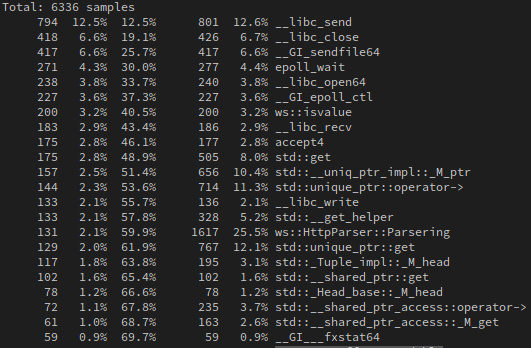
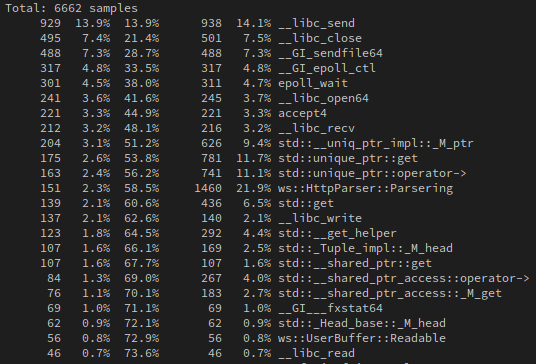
加入参数优化；

Changed region(s): [[0.3616, 0.0287, 0.9944, 1.0], [0.0, 0.0, 0.3013, 1.0]]

diff --git a/src/http/httpstatus.h b/src/http/httpstatus.h
@@ -18,6 +18,12 @@
 
 #include <iostream>
 
+#ifndef __GNUC__
+
+#define  __attribute__(x)  /*NOTHING*/
+    
+#endif
+
 namespace ws{
 
     enum HttpStatusCode{
@@ -121,7 +127,7 @@ namespace ws{
         
         HttpFlag Set_Ka = Keep_Alive;
 
-        void init() noexcept {    // 用于在每次解析的时候重新初始化状态而不是重新设置上指针
+        void init() noexcept {    // 用于在每次解析的时候重新初始化状态而不是重新设置指针
             method = HRInit;
             Status = HPSOK;
             Fault = HPFOK;
@@ -140,7 +146,6 @@ namespace ws{
     };
 
     std::ostream& operator<<(std::ostream& os, const HttpParser_Content& para);
-
 
     constexpr const char* StatusCode_to_String(int statuscode){
         HttpStatusCode para = static_cast<HttpStatusCode>(statuscode);
@@ -183,13 +188,11 @@ namespace ws{
         }
     }
 
-    constexpr bool isheader(char c) {
+    constexpr bool __attribute__((const)) isheader(char c) throw() {
         return isalnum(c) || c == '-' || c == '_';
     }
 
-
-    constexpr bool isuri(char c) {
-    bool isuri[] = {
+    constexpr bool is_uri[] = {
     /*0   nul    soh    stx    etx    eot    enq    ack    bel     7*/
         false, false, false, false, false, false, false, false,
     /*8   bs     ht     nl     vt     np     cr     so     si     15*/
@@ -224,11 +227,11 @@ namespace ws{
         true, true, true, false, false, false, false, false
     };
 
-    return (c >= 0) ? isuri[c] : false;
+    constexpr bool inline __attribute__((const)) isuri(char c) throw() {
+        return (c >= 0) ? is_uri[c] : false;
     }
 
-    constexpr bool isvalue(char c) {
-    bool isvalue[] = {
+    constexpr bool is_value[] = {
     /*0   nul    soh    stx    etx    eot    enq    ack    bel     7*/
         false, false, false, false, false, false, false, false,
     /*8   bs     ht     nl     vt     np     cr     so     si     15*/
@@ -263,8 +266,11 @@ namespace ws{
         true, true, true, true, true, true, true, false
     };
 
-    return (c >= 0) ? isvalue[c] : false;
+    // 这个函数曾占到了CPU执行的3.2%，很恐怖的一个数字，因为把is_value直接放在函数中了，导致每次都会压栈一个长度为128的数组；修改后占比0.4%；
+    constexpr bool inline __attribute__((hot)) __attribute__((const)) __attribute__((always_inline)) isvalue(char c) throw() {
+        return (c >= 0) ? is_value[c] : false;
     }
+
 }
 
 #endif

diff --git a/src/server/ws.cc b/src/server/ws.cc
@@ -45,19 +45,17 @@ namespace ws{
         try{
             signal(SIGPIPE, SIG_IGN);
 
-            // 其实这两个玩意对于性能没有啥帮助；《[读入，输出优化](https://oi-wiki.org/contest/io/)》
-/*             std::ios::sync_with_stdio(false);
-            std::cin.tie(nullptr); */
-
             _Server_.Set_AddrRUseA();
             _Server_.Base_Setting();
             _Server_.Server_BindAndListen();
+            _Server_.Server_DeferAccept();
+
             _Epoll_.Add(_Server_, EpollOnlyRead());
             _Epoll_.Add(_Timer_, EpollOnlyRead());  // 处理连接，又是单线程，只注册一个可读事件即可
             _Timer_.SetTimer();
 
             LockFreeQueue<ThreadLoadData> que;
-            LoadBalance LB(que);    // 负载均衡器
+            LoadBalance LB(que);                    // 负载均衡器
 
             EpollEvent_Result Event_Reault(Y_Dragon::EventResult_Number());
             channel_helper Channel_(LB);

diff --git a/src/server/server.cc b/src/server/server.cc
@@ -21,7 +21,7 @@
 
 namespace{
     template <typename T>
-    T max(T&& a,T&& b){
+    constexpr T max(T&& a,T&& b) throw() {
         return a > b ? a : b;
     }
 }
@@ -73,7 +73,7 @@ namespace ws{
         } */
     }
 
-    void Server::Server_BindAndListen(){ 
+    void Server::Server_BindAndListen(){
         assert(Addr_ != nullptr); 
         int para1 = bind(fd(), Addr_->Return_Pointer(), Addr_->Return_length());
         if(para1 == -1) throw std::runtime_error("'Server_BindAndListen' : error in bind.");
@@ -91,5 +91,10 @@ namespace ws{
         */
         struct linger buffer_ = {1,0};
         return setsockopt(fd(), SOL_SOCKET, SO_LINGER, &buffer_, sizeof(buffer_));
+    }
+
+    int Server::Server_DeferAccept(){
+        int soValue = 10;   // 一个magic number https://my.oschina.net/orion/blog/51575
+        return setsockopt(fd(), IPPROTO_TCP, TCP_DEFER_ACCEPT, &soValue, sizeof(soValue));
     }
 }

diff --git a/src/server/server.h b/src/server/server.h
@@ -35,6 +35,7 @@ namespace ws{
             std::unique_ptr<Socket> Server_Accept(); 
             void Server_Accept(fun&& f);
             void Server_BindAndListen();
+            int Server_DeferAccept();
 
             int Set_AddrRUseA() {return Set_Socket(SO_REUSEADDR, SOL_SOCKET);}  // 防止服务器重启受阻
             // https://blog.csdn.net/chen_fly2011/article/details/56480925?ops_request_misc=%257B%2522request%255Fid%2522%253A%2522160761747019725271062162%2522%252C%2522scm%2522%253A%252220140713.130102334..%2522%257D&request_id=160761747019725271062162&biz_id=0&utm_medium=distribute.pc_search_result.none-task-blog-2~all~sobaiduend~default-1-56480925.first_rank_v2_pc_rank_v29&utm_term=SO_REUSEPORT&spm=1018.2118.3001.4449

diff --git a/src/http/httpstatus.cc b/src/http/httpstatus.cc
@@ -18,7 +18,7 @@
 namespace ws{
     
     //For debugging
-    std::ostream& operator<<(std::ostream& os, const HttpParser_Content& para){
+    std::ostream&  [[deprecated]] operator<<(std::ostream& os, const HttpParser_Content& para){
         using std::endl;
         os << "method : " << static_cast<int>(para.method) << endl;
         os << "Status : " << static_cast<int>(para.Status) << endl;

diff --git a/src/server/ws.h b/src/server/ws.h
@@ -23,7 +23,7 @@
 #include "../tool/timer.h"
 
 namespace ws{
-    class Web_Server{ 
+    class Web_Server{
         public:
             Web_Server();
             void Running();

diff --git a/README.md b/README.md
@@ -1,6 +1,6 @@
 # 介绍
 
-RabbitServer是一个运行于Linux平台的HTTP服务器，采用C++14编写，目前支持处理HTTP/1.1的静态GET，HEAD，OPTIONS请求以及FastCGI请求。
+RabbitServer是一个运行于GNU/Linux平台的HTTP服务器，采用C++14编写，目前支持处理HTTP/1.1的静态GET，HEAD，OPTIONS请求以及FastCGI请求。
 
 # 特点
 1. 基于半同步半异步的reactor模型
@@ -233,7 +233,7 @@ ab -n 1000000 -c 1000 -r 127.0.0.1:8888/ (80)
 
 ---
 
-经过一段时间的优化，可以看到基本耗时较长的消耗都集中在内核态了，这也是理想中的情况：
+经过一段时间针对性的性能优化，可以看到基本耗时较长的消耗都集中在内核态了，这也是理想中的情况：
 
 ![avatar](image/性能分析text.png)
 
